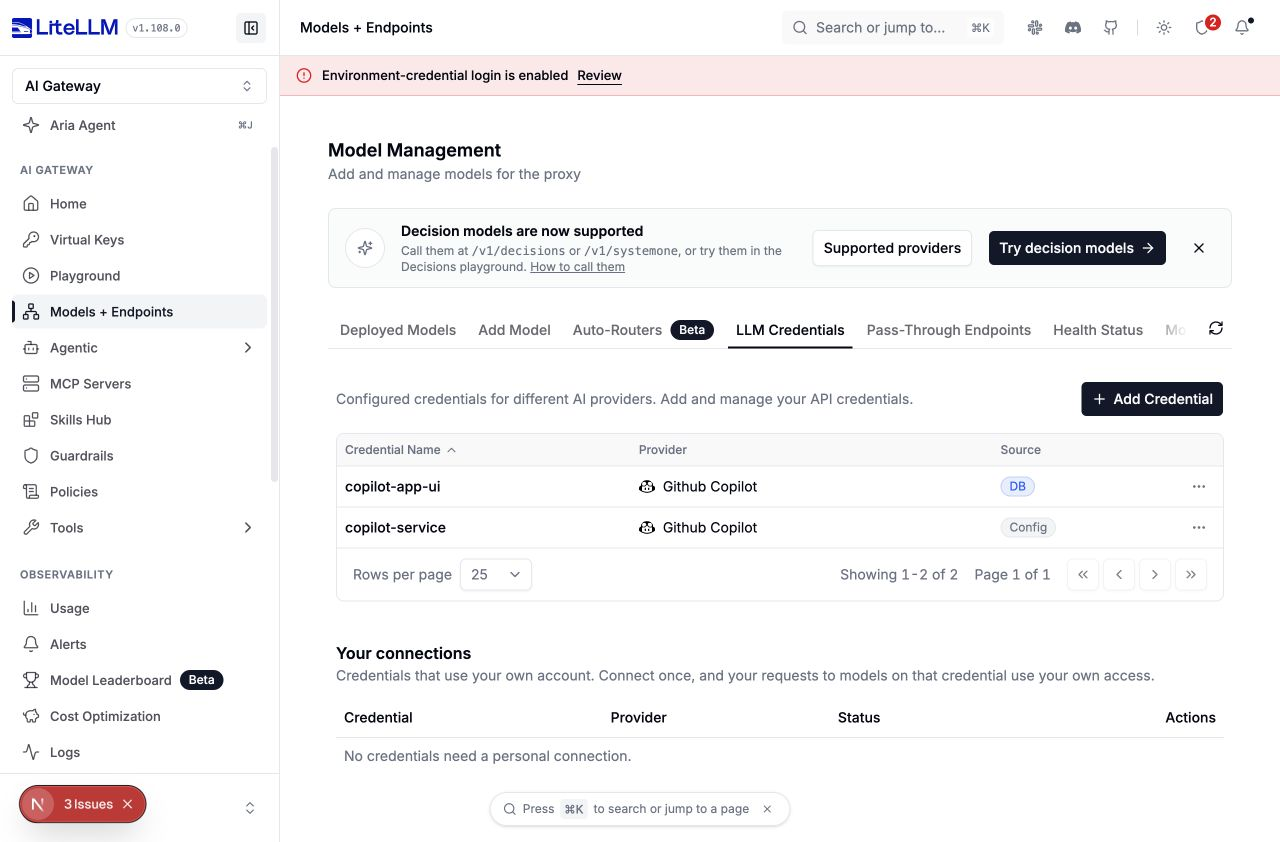
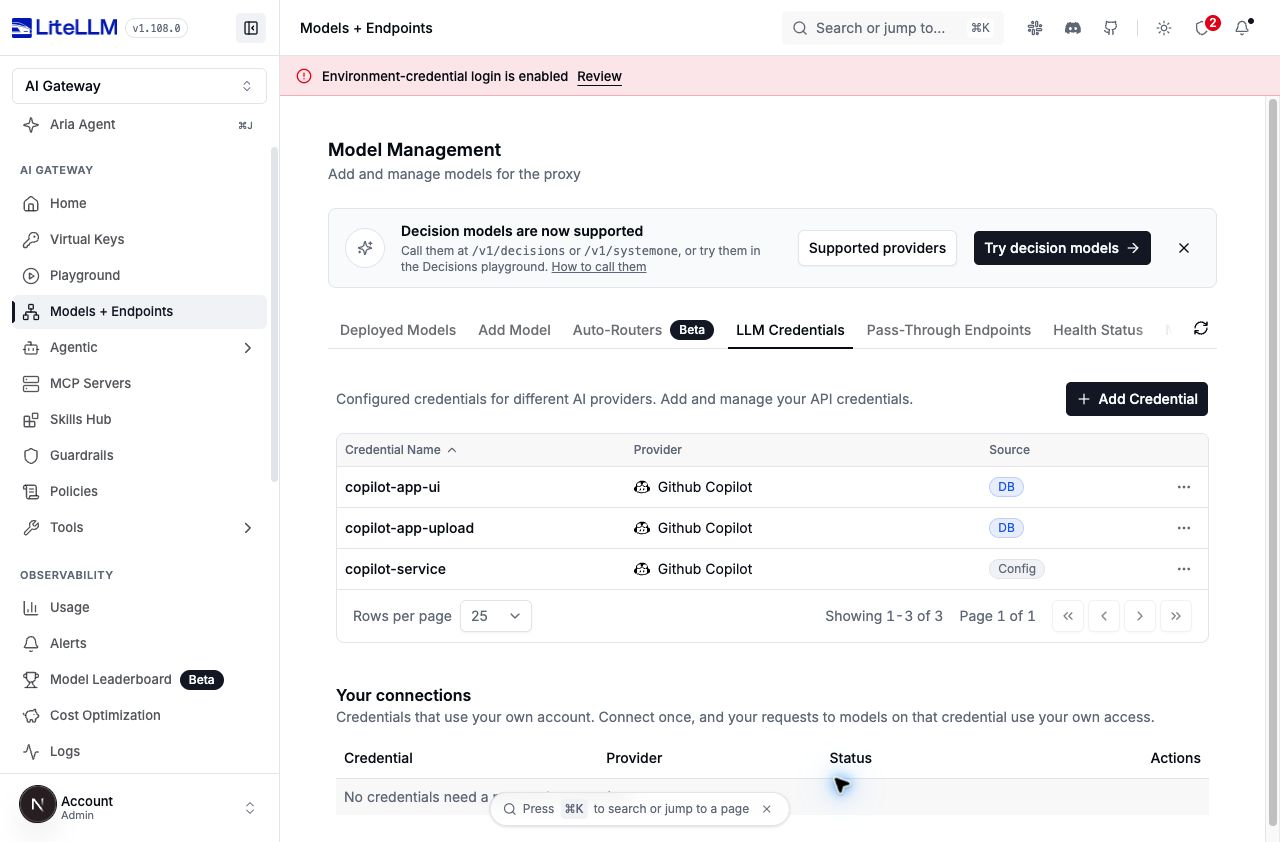
Document encrypted PEM upload without container mounts

diff --git a/docs/providers/github_copilot.md b/docs/providers/github_copilot.md
@@ -111,41 +111,54 @@ Create an App with the **Copilot Requests** organization permission set to **Rea
 
 ### Dashboard setup
 
-Open **Models + Endpoints** > **LLM Credentials** > **Add Credential**. Select **Github Copilot**, choose **GitHub App** under **Auth Type**, and enter a credential name, the App client ID, installation ID, and private-key secret reference. Leave **GitHub host** empty for github.com. Click **Add Credential**.
+Open **Models + Endpoints** > **LLM Credentials** > **Add Credential**. Select **Github Copilot**, choose **GitHub App** under **Auth Type**, and enter a credential name, the App client ID, and installation ID. Leave **GitHub host** empty for github.com.
+
+Under **Private key (PEM)**, click **Click to Upload** and choose the PEM downloaded from your GitHub App's **Credentials** > **Key pairs** settings. Click **Add Credential**. The information icon beside each field explains where its value comes from.
 
 <div className="docs-screenshot">
-  <Image img={require('../../img/github-copilot-app-after.jpg')} alt="GitHub App authentication fields in the existing credential form" width={1280} height={842} />
+  <Image img={require('../../img/github-copilot-app-after.jpg')} alt="Upload a GitHub App PEM in the existing LiteLLM credential form" width={1280} height={842} />
 </div>
+
+This uses the same file-upload and encrypted credential storage flow as Vertex AI service-account credentials. It requires a configured LiteLLM database, with no PEM mount or Enterprise secret-manager integration. Use HTTPS for the dashboard and credential API. The browser reads the selected file for submission, and LiteLLM encrypts the PEM before storing it. Credential readback is masked. The form shows a supplied-key status and does not show the saved PEM.
+
+The existing proxy encryption key protects stored credentials. Keep `LITELLM_SALT_KEY` stable, high-entropy, shared across workers, and separate from the database and backups. LiteLLM falls back to its master key when no salt key is configured. Follow your deployment's credential-encryption and backup procedures. Encryption at rest does not protect against a compromised running proxy, which must use the private key to sign JWTs.
 
 Open **Add Model**, select **Github Copilot**, and choose an available model. Set its public model name and select the saved App credential under **Existing Credentials**. Click **Add Model**. Applications call this alias with their LiteLLM virtual keys. No personal GitHub connection is required.
 
-Create a separate named credential for each App, then attach each application's model deployment to the appropriate credential. Administrators can edit the credential's secret reference when rotating keys.
+Create a separate named credential for each App, then attach each application's model deployment to the appropriate credential. To rotate a key, edit the credential and upload its replacement before revoking the old key in GitHub. Leaving the uploaded-key field unchanged preserves the saved key.
 
 ### Credential API
 
-Administrators can use `POST /credentials` with the same fields. The private key remains in the server's mounted secret or secret manager. The API validates App configuration and rejects pasted PEM contents.
+Administrators can use `POST /credentials` with `github_copilot_app_private_key` containing the PEM. The endpoint validates an unencrypted RSA private key of at least 2048 bits, up to 16 KiB, before saving it through LiteLLM's credential encryption. The private key is accepted in a named credential, not in inference request bodies.
 
-```bash
-curl "$LITELLM_URL/credentials" \
-  -H "Authorization: Bearer $LITELLM_MASTER_KEY" \
-  -H "Content-Type: application/json" \
-  -d '{
-    "credential_name": "copilot-service-a",
-    "credential_values": {
-      "github_copilot_auth_type": "github_app",
-      "github_copilot_app_id": "<App client ID>",
-      "github_copilot_app_installation_id": "<installation ID>",
-      "github_copilot_app_private_key_ref": "oidc/file//run/secrets/copilot-service-a.pem"
+```python title="Create an encrypted App credential"
+import os
+from pathlib import Path
+import httpx
+
+response = httpx.post(
+    os.environ["LITELLM_URL"] + "/credentials",
+    headers={"Authorization": "Bearer " + os.environ["LITELLM_MASTER_KEY"]},
+    json={
+        "credential_name": "copilot-service-a",
+        "credential_values": {
+            "github_copilot_auth_type": "github_app",
+            "github_copilot_app_id": os.environ["COPILOT_SERVICE_A_CLIENT_ID"],
+            "github_copilot_app_installation_id": os.environ["COPILOT_SERVICE_A_INSTALLATION_ID"],
+            "github_copilot_app_private_key": Path(os.environ["COPILOT_PEM_FILE"]).read_text(),
+        },
+        "credential_info": {"custom_llm_provider": "github_copilot"},
     },
-    "credential_info": {"custom_llm_provider": "github_copilot"}
-  }'
+    timeout=30,
+)
+response.raise_for_status()
 ```
 
-Attach `litellm_credential_name: copilot-service-a` to a deployment through `POST /model/new` or the configuration below. Use `PATCH /credentials/copilot-service-a` to update `credential_values`, with `credential_info: {}` when provider metadata is unchanged. The API validates the merged configuration before saving it.
+`COPILOT_PEM_FILE` is read by this administrator's script, not by the proxy. Attach `litellm_credential_name: copilot-service-a` to a deployment through `POST /model/new` or YAML. Use `PATCH /credentials/copilot-service-a` with a replacement `github_copilot_app_private_key` in `credential_values` and `credential_info: {}` to rotate it. Do not log the request body.
 
-### Gateway configuration
+### Server-managed configuration and SDK secrets
 
-Store the App's RSA PEM private key in a secret manager or mount it read-only into the proxy container. The example uses a mounted secret at `/run/secrets/copilot-service-a.pem`. Only the proxy service account should be able to read it. Do not put PEM contents in YAML, a model request, or a credential record.
+For deployments managed entirely through YAML or the SDK, secret references remain available. The dashboard uses PEM upload only. Store the App's RSA PEM private key in a secret manager or mount it read-only into the proxy container. The example uses a mounted secret at `/run/secrets/copilot-service-a.pem`. Only the proxy service account should be able to read it. Keep PEM contents out of YAML and inference requests. Store uploaded keys through the credential API so they are encrypted.
 
 ```yaml showLineNumbers keep-model-ids title="config.yaml"
 credential_list:
@@ -186,7 +199,7 @@ general_settings:
 
 `github_copilot_app_id` accepts the App's client ID, which GitHub recommends for JWTs, or the numeric App ID as a quoted string. Use the installation ID for the target organization, not an organization ID. Set these values in the environment before starting the proxy.
 
-`github_copilot_app_private_key_ref` is a secret reference. It accepts `oidc/file/` paths within `LITELLM_OIDC_ALLOWED_CREDENTIAL_DIRS` (standard container secret directories, including `/run/secrets`, are allowed by default), `os.environ/VARIABLE_NAME`, or a secret name in your configured LiteLLM secret manager. The reference stays a reference until authentication runs. It never accepts inline PEM. Use a mounted secret or secret manager in production, and keep private keys out of client applications.
+`github_copilot_app_private_key_ref` is a secret reference. It accepts `oidc/file/` paths within `LITELLM_OIDC_ALLOWED_CREDENTIAL_DIRS` (standard container secret directories, including `/run/secrets`, are allowed by default), `os.environ/VARIABLE_NAME`, or a secret name in your configured LiteLLM secret manager. The reference stays a reference until authentication runs. This reference field never accepts inline PEM. For this reference-based configuration, provision the secret on each worker and keep private keys out of client applications. Built-in external secret-manager integrations follow their existing Enterprise licensing.
 
 Call the public alias with a LiteLLM virtual key. Restrict each application's key to its own model alias, and assign separate team or key budgets for usage tracking. The App IDs and private-key references belong in administrator-owned configuration. Request bodies cannot select or replace those values, and App deployments reject client API key and endpoint overrides.
 
@@ -225,7 +238,7 @@ Each worker keeps a bounded in-memory token cache and coordinates concurrent ref
 
 The cache separates hosts, Apps, installations, secret references, and key contents. Updating a mounted key changes the cache identity on the next request. Secret-manager caching can delay visibility of a rotated value, so follow your backend's cache settings or restart workers. Roll out the replacement key before revoking the old key. To terminate existing installation tokens immediately, use GitHub's revocation controls and restart workers, rather than relying on deleting a private key alone.
 
-Private keys and installation tokens are not written to LiteLLM's disk token store or Redis by this authentication flow. Shared model-response caching is disabled for these requests. Keep production debug logging disabled and restrict access to process memory, mounted secrets, and any third-party logging callbacks you configure.
+Uploaded private keys are encrypted in the credential database and held in process memory when loaded. Secret references use their existing backend. Installation tokens are not written to LiteLLM's disk token store, database, or Redis by this authentication flow. Shared model-response caching is disabled for these requests. Keep production debug logging disabled and restrict access to process memory, mounted secrets, and any third-party logging callbacks you configure.
 
 The default host is `github.com`. `github_copilot_host` also accepts the provider's existing `SUBDOMAIN.ghe.com` host format. GitHub Enterprise Server and arbitrary token or model URLs are rejected. Live validation for this feature used github.com. Confirm availability of App-authenticated Copilot in your data-residency deployment before rollout.
 
